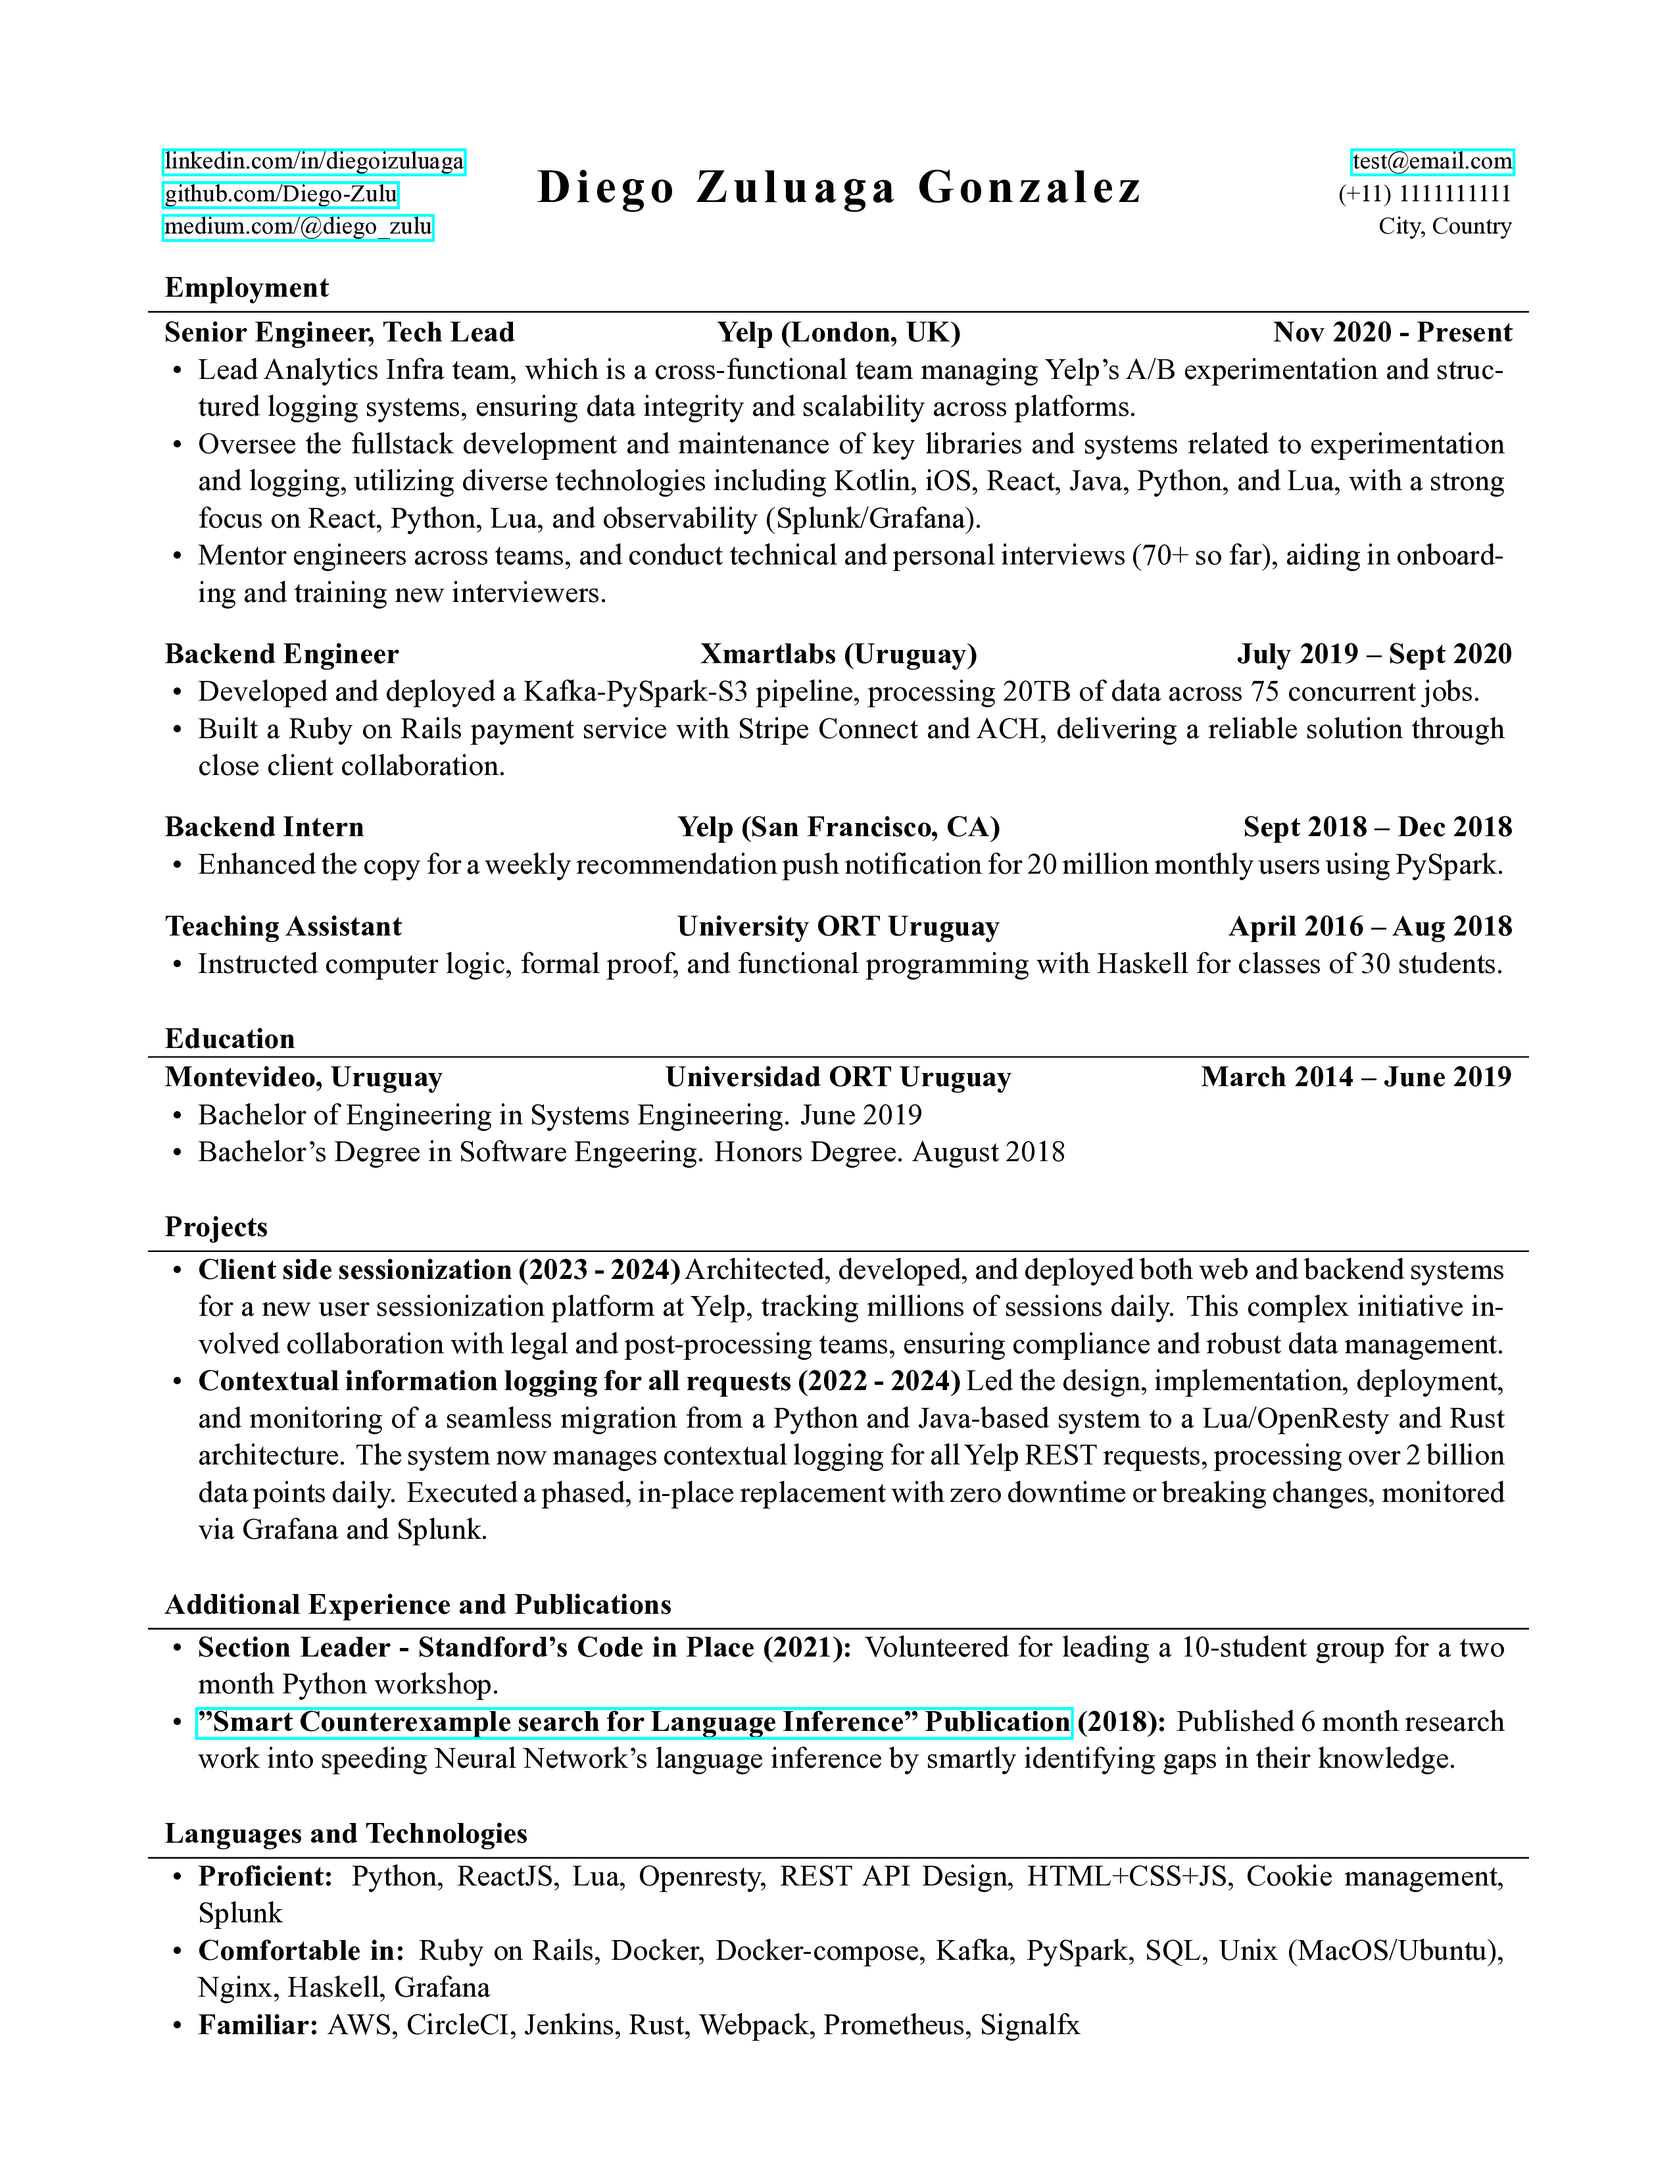
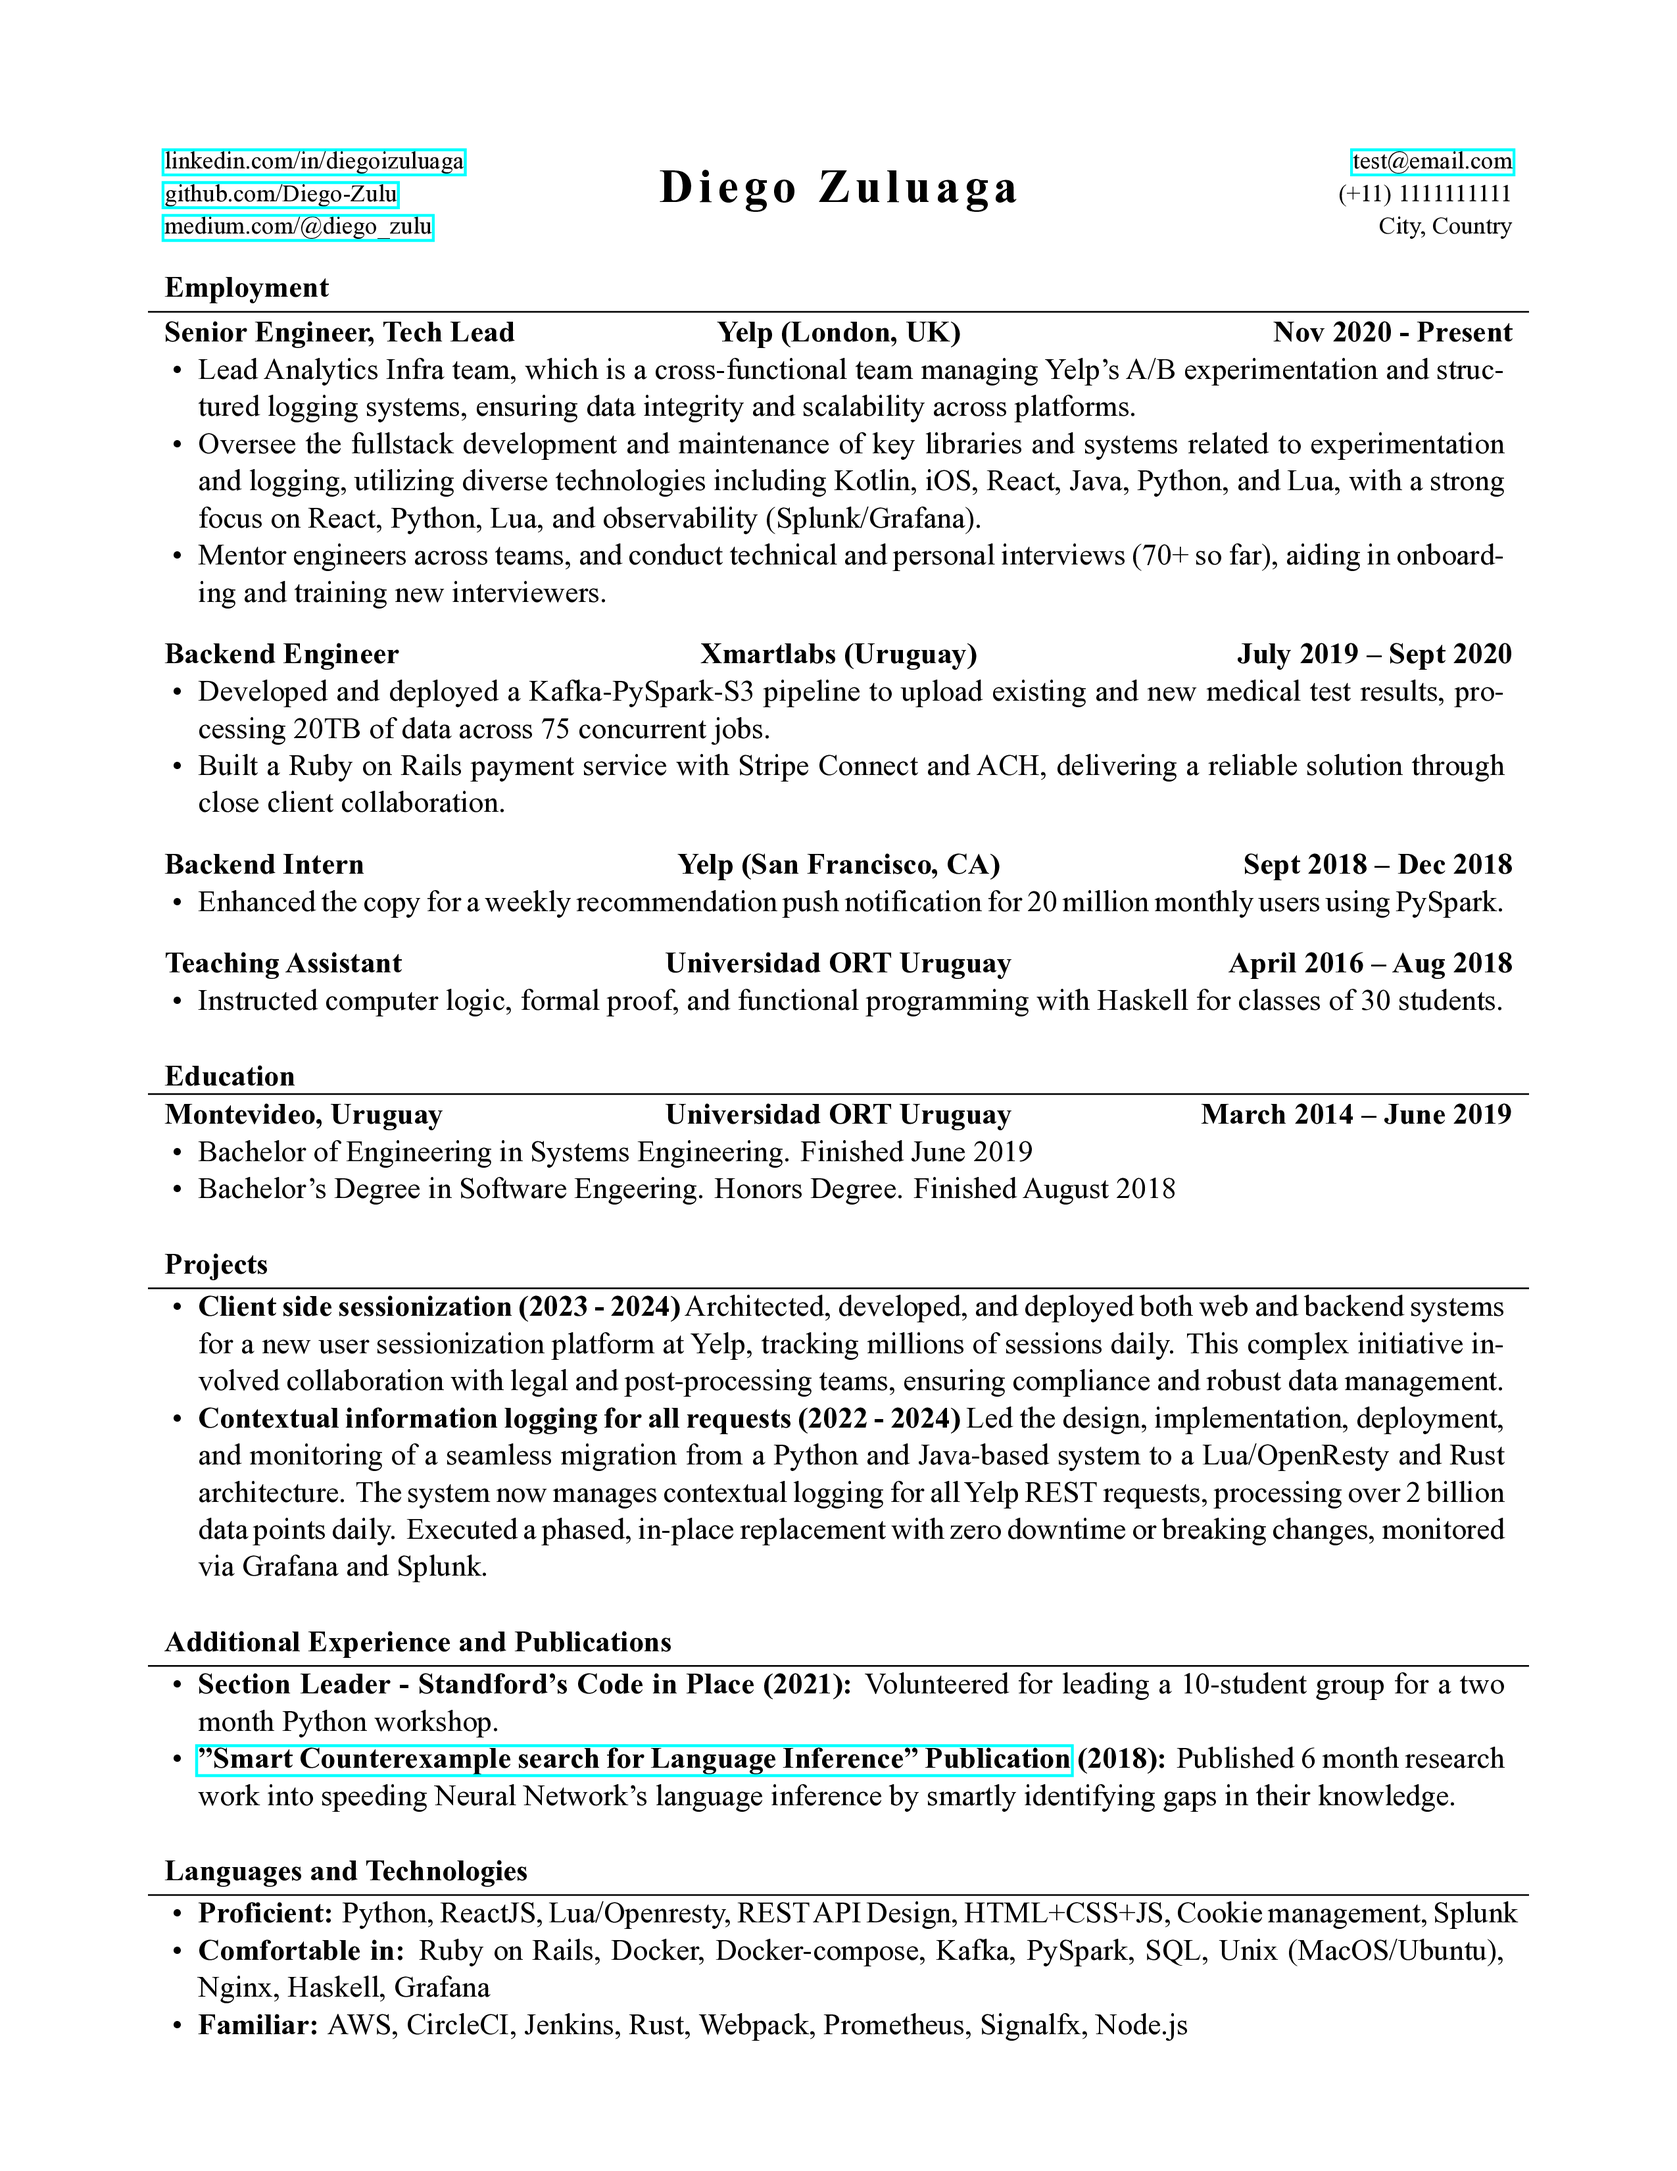
Adding more technologies and information to xmartlabs role

Changed region(s): [[0.0929, 0.3121, 0.8984, 0.9052], [0.3098, 0.0624, 0.6816, 0.0936]]

diff --git a/Diego's Resume.tex b/Diego's Resume.tex
@@ -29,7 +29,7 @@
 \input{ContactInfo.tex}
 
 % Set applicant's personal data for header
-\name{Diego Zuluaga Gonzalez}
+\name{Diego Zuluaga}
 \address{\footnotesize{\href{https://www.linkedin.com/in/diegoizuluaga}{linkedin.com/in/diegoizuluaga}} \linebreak 
         \href{https://github.com/Diego-Zulu}{github.com/Diego-Zulu} \linebreak 
         \href{https://medium.com/@diego_zulu}{medium.com/@diego\_zulu}}
@@ -55,7 +55,7 @@
 		
 		\begin{cvsubsection}{Backend Engineer}{Xmartlabs (Uruguay)}{July 2019 -- Sept 2020}	
 			\begin{itemize}
-				\item Developed and deployed a Kafka-PySpark-S3 pipeline, processing 20TB of data across 75 concurrent jobs.
+				\item Developed and deployed a Kafka-PySpark-S3 pipeline to upload existing and new medical test results, processing 20TB of data across 75 concurrent jobs.
 				\item Built a Ruby on Rails payment service with Stripe Connect and ACH, delivering a reliable solution through close client collaboration.
 			\end{itemize}
 		\end{cvsubsection}
@@ -66,7 +66,7 @@
 			\end{itemize}
 		\end{cvsubsection}
 
-		\begin{cvsubsection}{Teaching Assistant}{University ORT Uruguay}{April 2016 -- Aug 2018}		
+		\begin{cvsubsection}{Teaching Assistant}{Universidad ORT Uruguay}{April 2016 -- Aug 2018}
 			\begin{itemize}
 				\item Instructed computer logic, formal proof, and functional programming with Haskell for classes of 30 students.
 			\end{itemize}
@@ -76,8 +76,8 @@
 	\begin{cvsection}{Education}
 		\begin{cvsubsection}{Montevideo, Uruguay}{Universidad ORT Uruguay}{March 2014 -- June 2019}
 			\begin{itemize}
-				\item Bachelor of Engineering in Systems Engineering. June 2019
-				\item Bachelor's Degree in Software Engeering. Honors Degree. August 2018
+				\item Bachelor of Engineering in Systems Engineering. Finished June 2019
+				\item Bachelor's Degree in Software Engeering. Honors Degree. Finished August 2018
 			\end{itemize}
 		\end{cvsubsection}
 	\end{cvsection}
@@ -102,11 +102,10 @@
 	\begin{cvsection}{Languages and Technologies}
 		\begin{cvsubsection}{}{}{}	
 			\begin{itemize}
-				\item \textbf{Proficient:} Python, ReactJS, Lua, Openresty, REST API Design, HTML+CSS+JS, Cookie management, Splunk
+				\item \textbf{Proficient:} Python, ReactJS, Lua/Openresty, REST API Design, HTML+CSS+JS, Cookie management, Splunk
 				\item \textbf{Comfortable in:} Ruby on Rails, Docker, Docker-compose, Kafka, PySpark, SQL, Unix (MacOS/Ubuntu), Nginx, Haskell, Grafana
-				\item \textbf{Familiar:} AWS, CircleCI, Jenkins, Rust, Webpack, Prometheus, Signalfx
+				\item \textbf{Familiar:} AWS, CircleCI, Jenkins, Rust, Webpack, Prometheus, Signalfx, Node.js
 			\end{itemize}
 		\end{cvsubsection}
 	\end{cvsection}
-	
 \end{document}
